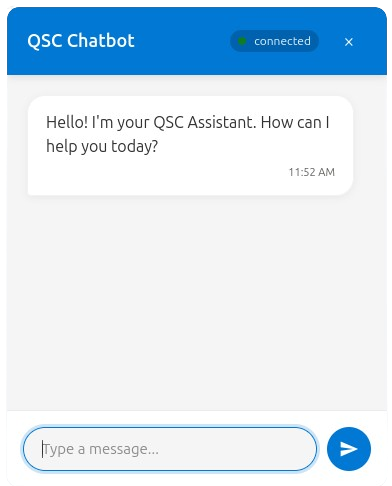
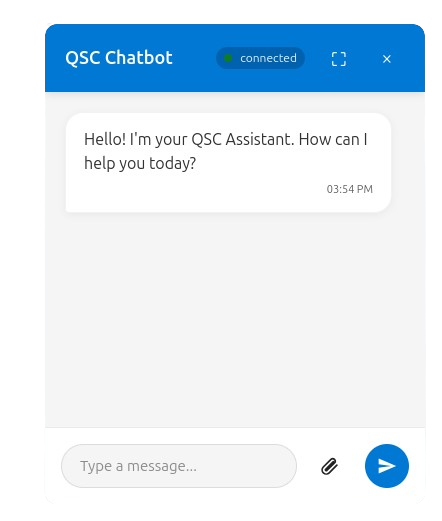
support markdowns and imgs

diff --git a/qsc-chatbot.js b/qsc-chatbot.js
@@ -82,6 +82,24 @@ class QscChatbot extends HTMLElement {
           this.renderMessages();
         }
         
+        if (data.type === 'image') {
+          this.messages.push({
+            id: Date.now(),
+            text: `<img src="${data.data}" alt="server image" style="max-width:200px;max-height:200px;">`,
+            sender: 'bot',
+            timestamp: new Date()
+          });
+          this.renderMessages();
+        } else if (data.type === 'markdown') {
+          this.messages.push({
+            id: Date.now(),
+            text: `<pre class="markdown">${data.data}</pre>`,
+            sender: 'bot',
+            timestamp: new Date()
+          });
+          this.renderMessages();
+        }
+        
         this.scrollToBottom();
       } catch (e) {
         console.error('Error processing message:', e);
@@ -542,6 +560,29 @@ class QscChatbot extends HTMLElement {
         height: 20px;
       }
       
+      .attach-btn {
+        background: transparent;
+        border: none;
+        cursor: pointer;
+        width: 44px;
+        height: 44px;
+        display: flex;
+        align-items: center;
+        justify-content: center;
+        padding: 0;
+        margin-right: 4px;
+      }
+      .attach-btn svg {
+        width: 20px;
+        height: 20px;
+        stroke: #222;
+        fill: none;
+        display: block;
+      }
+      .attach-btn:hover {
+        background: rgba(0,0,0,0.04);
+      }
+      
       .broadcast-popup {
         position: fixed;
         bottom: 100px;
@@ -575,6 +616,17 @@ class QscChatbot extends HTMLElement {
       
       .fade-out {
         opacity: 0;
+      }
+      
+      .markdown {
+        background: #fff;
+        border-radius: 8px;
+        padding: 10px;
+        font-family: monospace;
+        white-space: pre-wrap;
+        max-width: 100%;
+        overflow-x: auto;
+        color: black !important;
       }
       
       @media (max-width: 480px) {
@@ -692,6 +744,12 @@ class QscChatbot extends HTMLElement {
         
         <div class="input-area">
           <input class="chat-input" type="text" placeholder="Type a message..." autofocus>
+          <input class="file-input" type="file" accept="image/*,.md,.markdown" style="display:none">
+          <button class="attach-btn" title="Attach file">
+            <svg viewBox="0 0 24 24" fill="none" width="20" height="20" stroke="white" stroke-width="2" stroke-linecap="round" stroke-linejoin="round">
+              <path d="M21.44 11.05l-9.19 9.19a5 5 0 01-7.07-7.07l9.19-9.19a3 3 0 014.24 4.24l-9.19 9.19a1 1 0 01-1.41-1.41l9.19-9.19" />
+            </svg>
+          </button>
           <button class="send-btn">
           <svg class="send-icon" viewBox="0 0 24 24" fill="white">
             <path d="M2.01 21L23 12 2.01 3 2 10l15 2-15 2z"></path>
@@ -750,6 +808,54 @@ class QscChatbot extends HTMLElement {
         this.isMinimized = !this.isMinimized;
         if (this.isMinimized) this.isFullscreen = false;
         this.render();
+      });
+    }
+    
+    const fileInput = this.shadowRoot.querySelector('.file-input');
+    const attachBtn = this.shadowRoot.querySelector('.attach-btn');
+    if (attachBtn && fileInput) {
+      attachBtn.addEventListener('click', () => fileInput.click());
+      fileInput.addEventListener('change', async (e) => {
+        const file = e.target.files[0];
+        if (!file) return;
+        if (file.type.startsWith('image/')) {
+          // Send image as base64
+          const reader = new FileReader();
+          reader.onload = () => {
+            const base64 = reader.result;
+            this.messages.push({
+              id: Date.now(),
+              text: `<img src="${base64}" alt="user upload" style="max-width:200px;max-height:200px;">`,
+              sender: 'user',
+              timestamp: new Date()
+            });
+            this.renderMessages();
+            this.scrollToBottom();
+            if (this.ws && this.connectionStatus === 'connected') {
+              this.ws.send(JSON.stringify({ type: 'image', data: base64, filename: file.name }));
+            }
+          };
+          reader.readAsDataURL(file);
+        } else if (file.name.endsWith('.md') || file.name.endsWith('.markdown')) {
+          // Send markdown file as text
+          const reader = new FileReader();
+          reader.onload = () => {
+            const content = reader.result;
+            this.messages.push({
+              id: Date.now(),
+              text: `<pre class="markdown">${content}</pre>`,
+              sender: 'user',
+              timestamp: new Date()
+            });
+            this.renderMessages();
+            this.scrollToBottom();
+            if (this.ws && this.connectionStatus === 'connected') {
+              this.ws.send(JSON.stringify({ type: 'markdown', data: content, filename: file.name }));
+            }
+          };
+          reader.readAsText(file);
+        }
+        fileInput.value = '';
       });
     }
   }

diff --git a/test-chatbot.html b/test-chatbot.html
@@ -339,7 +339,7 @@
     </div>
     
     <div class="demo-section">
-      <div class="demo-title">Chatbot Demo</div>
+      <div class="demo-title">QSC Chatbot Demo</div>
       <div class="demo-container">
         <div class="demo-description">
           <p>This professional chatbot features:</p>
@@ -349,9 +349,19 @@
             <li>Broadcast notifications when chat is closed</li>
             <li>Connection status indicators</li>
             <li>Message history with timestamps</li>
+            <li>Full-screen support for immersive conversations</li>
+            <li>Support for Markdown and image attachments</li>
             <li>Responsive design for all devices</li>
           </ul>
-          <p>Try sending a message or wait for a broadcast notification to appear!</p>
+          <p>
+            The chatbot UI supports broadcast messages. To trigger a broadcast, your backend must send a 
+            <strong>POST</strong> request to <code>https://your-rest-api-endpoint/broadcast</code>. The <code>/broadcast</code> should receive a JSON payload like:
+          </p>
+          <pre style="background-color: #f8f9fa; padding: 1rem; border-radius: 0.5rem; color: #212529;">
+{
+  "text": "Hello, Qsc team!"
+}
+          </pre>
         </div>
         <div class="demo-box">
           <img src="./assets/QscChatbot.png" alt="QscChatbot" />
@@ -369,6 +379,9 @@
           <div class="demo-img-row">
             <img src="./assets/QscChatbot03.png" alt="QscChatbot03" style="border-radius:5%;">
             <img src="./assets/QscChatbot04.png" alt="QscChatbot04" style="border-radius:5%;">
+          </div>
+           <div class="single">
+            <img src="./assets/QscChatbot05.png" alt="QscChatbot05" style="border-radius:1%;">
           </div>
         </div>
       </div>
@@ -403,6 +416,6 @@
     QSC Chatbot Component | Professional Web Interface
   </div>
 
-  <script src="https://unpkg.com/@quasiris/qsc-chatbot-ui@latest/qsc-chatbot.js"></script>
+  <script src="./qsc-chatbot.js"></script>
 </body>
 </html>
